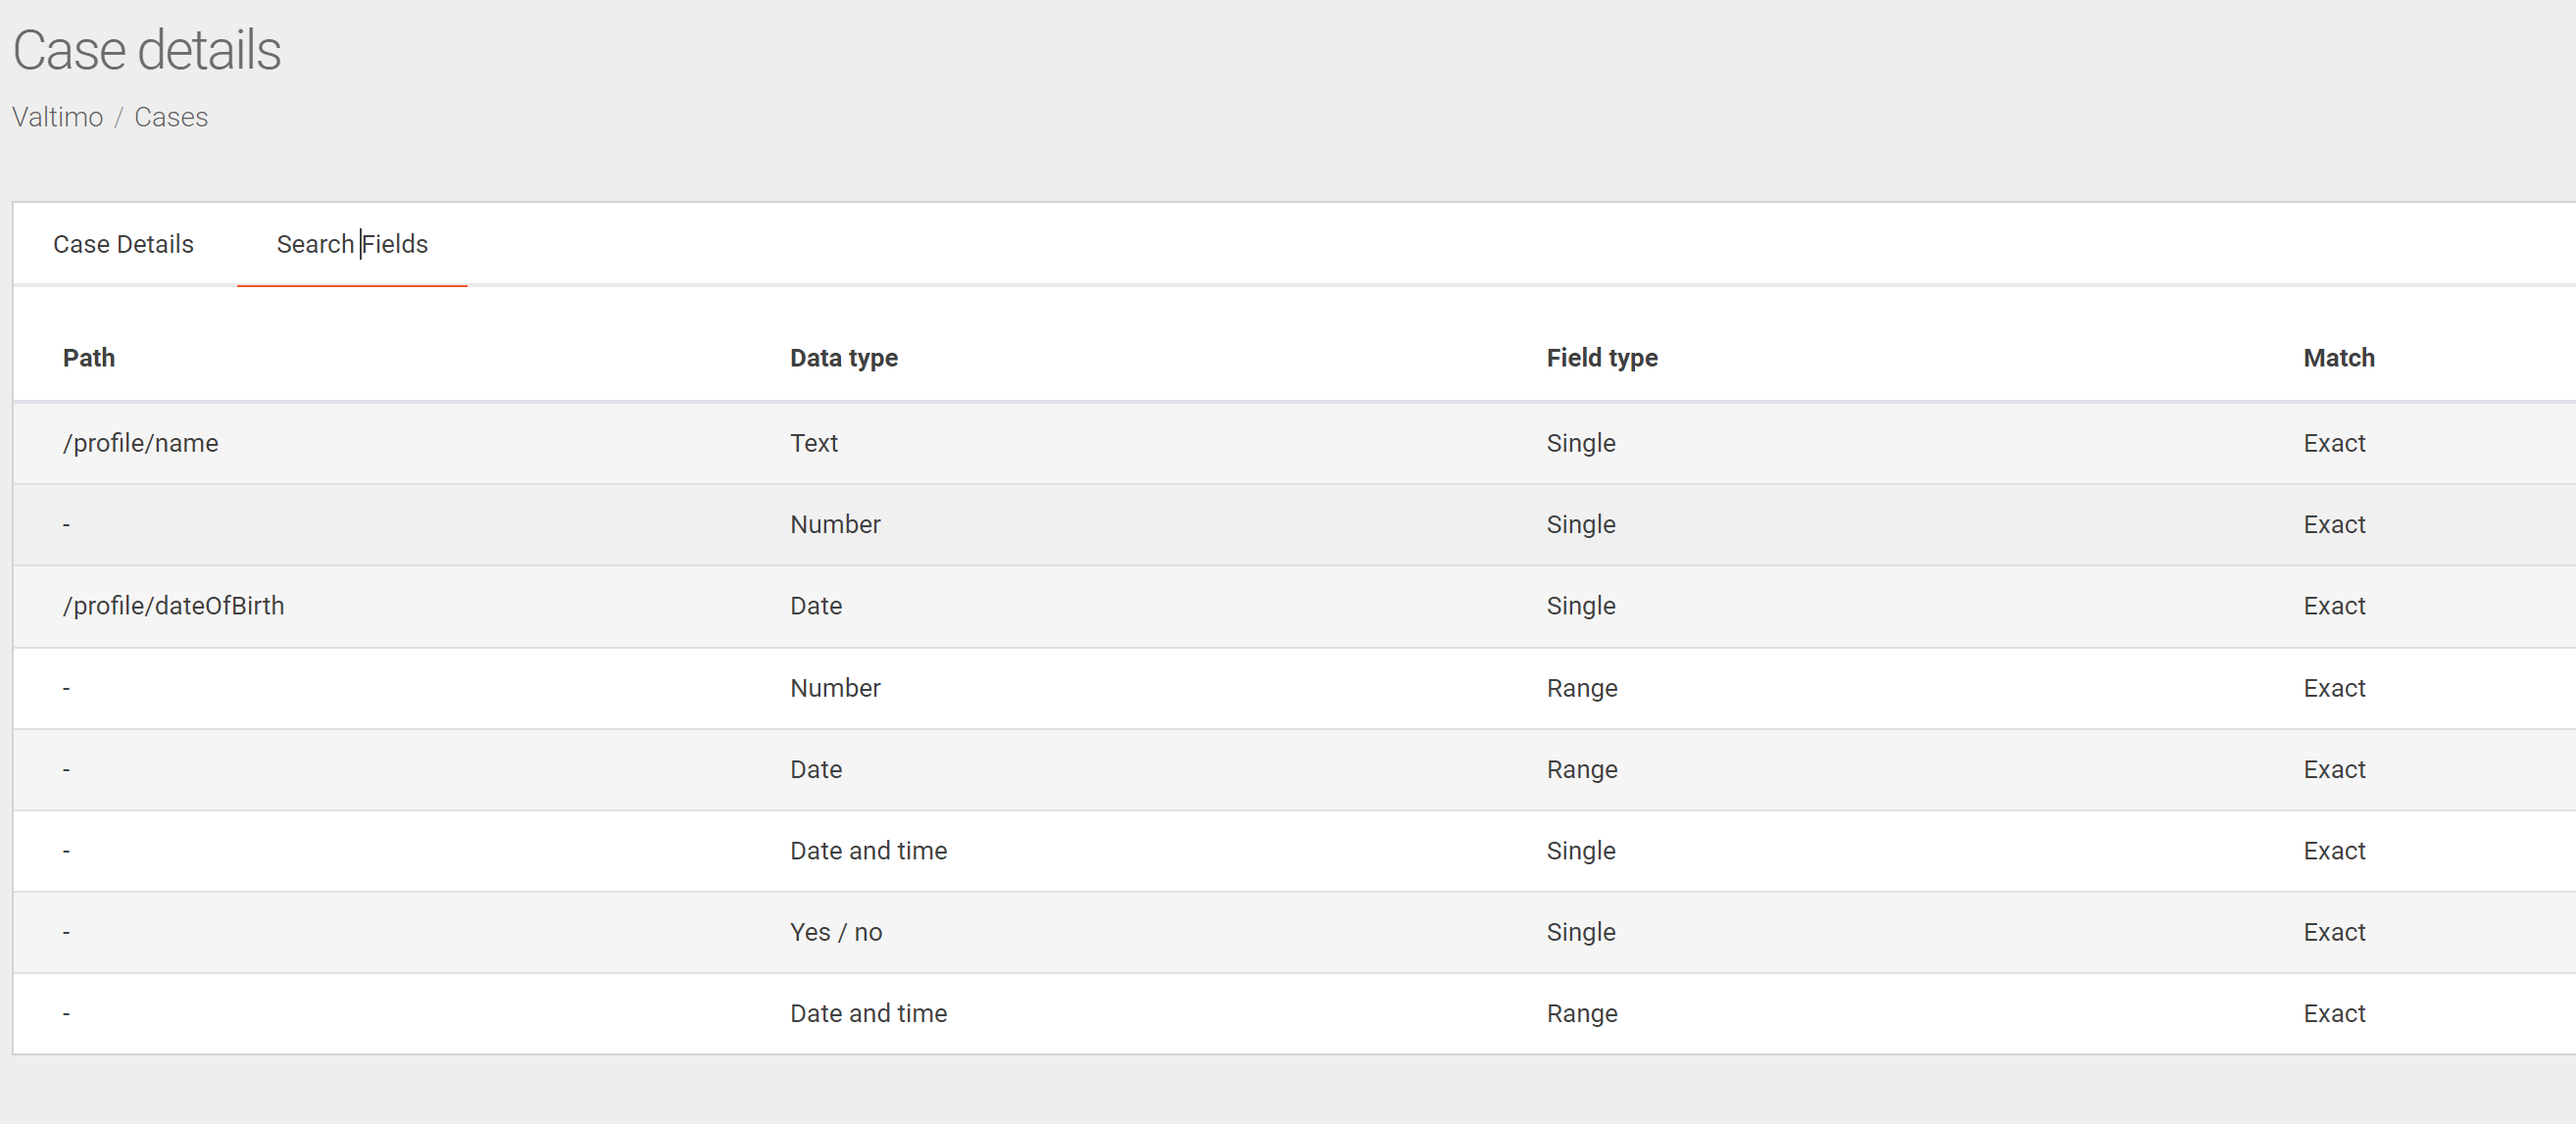
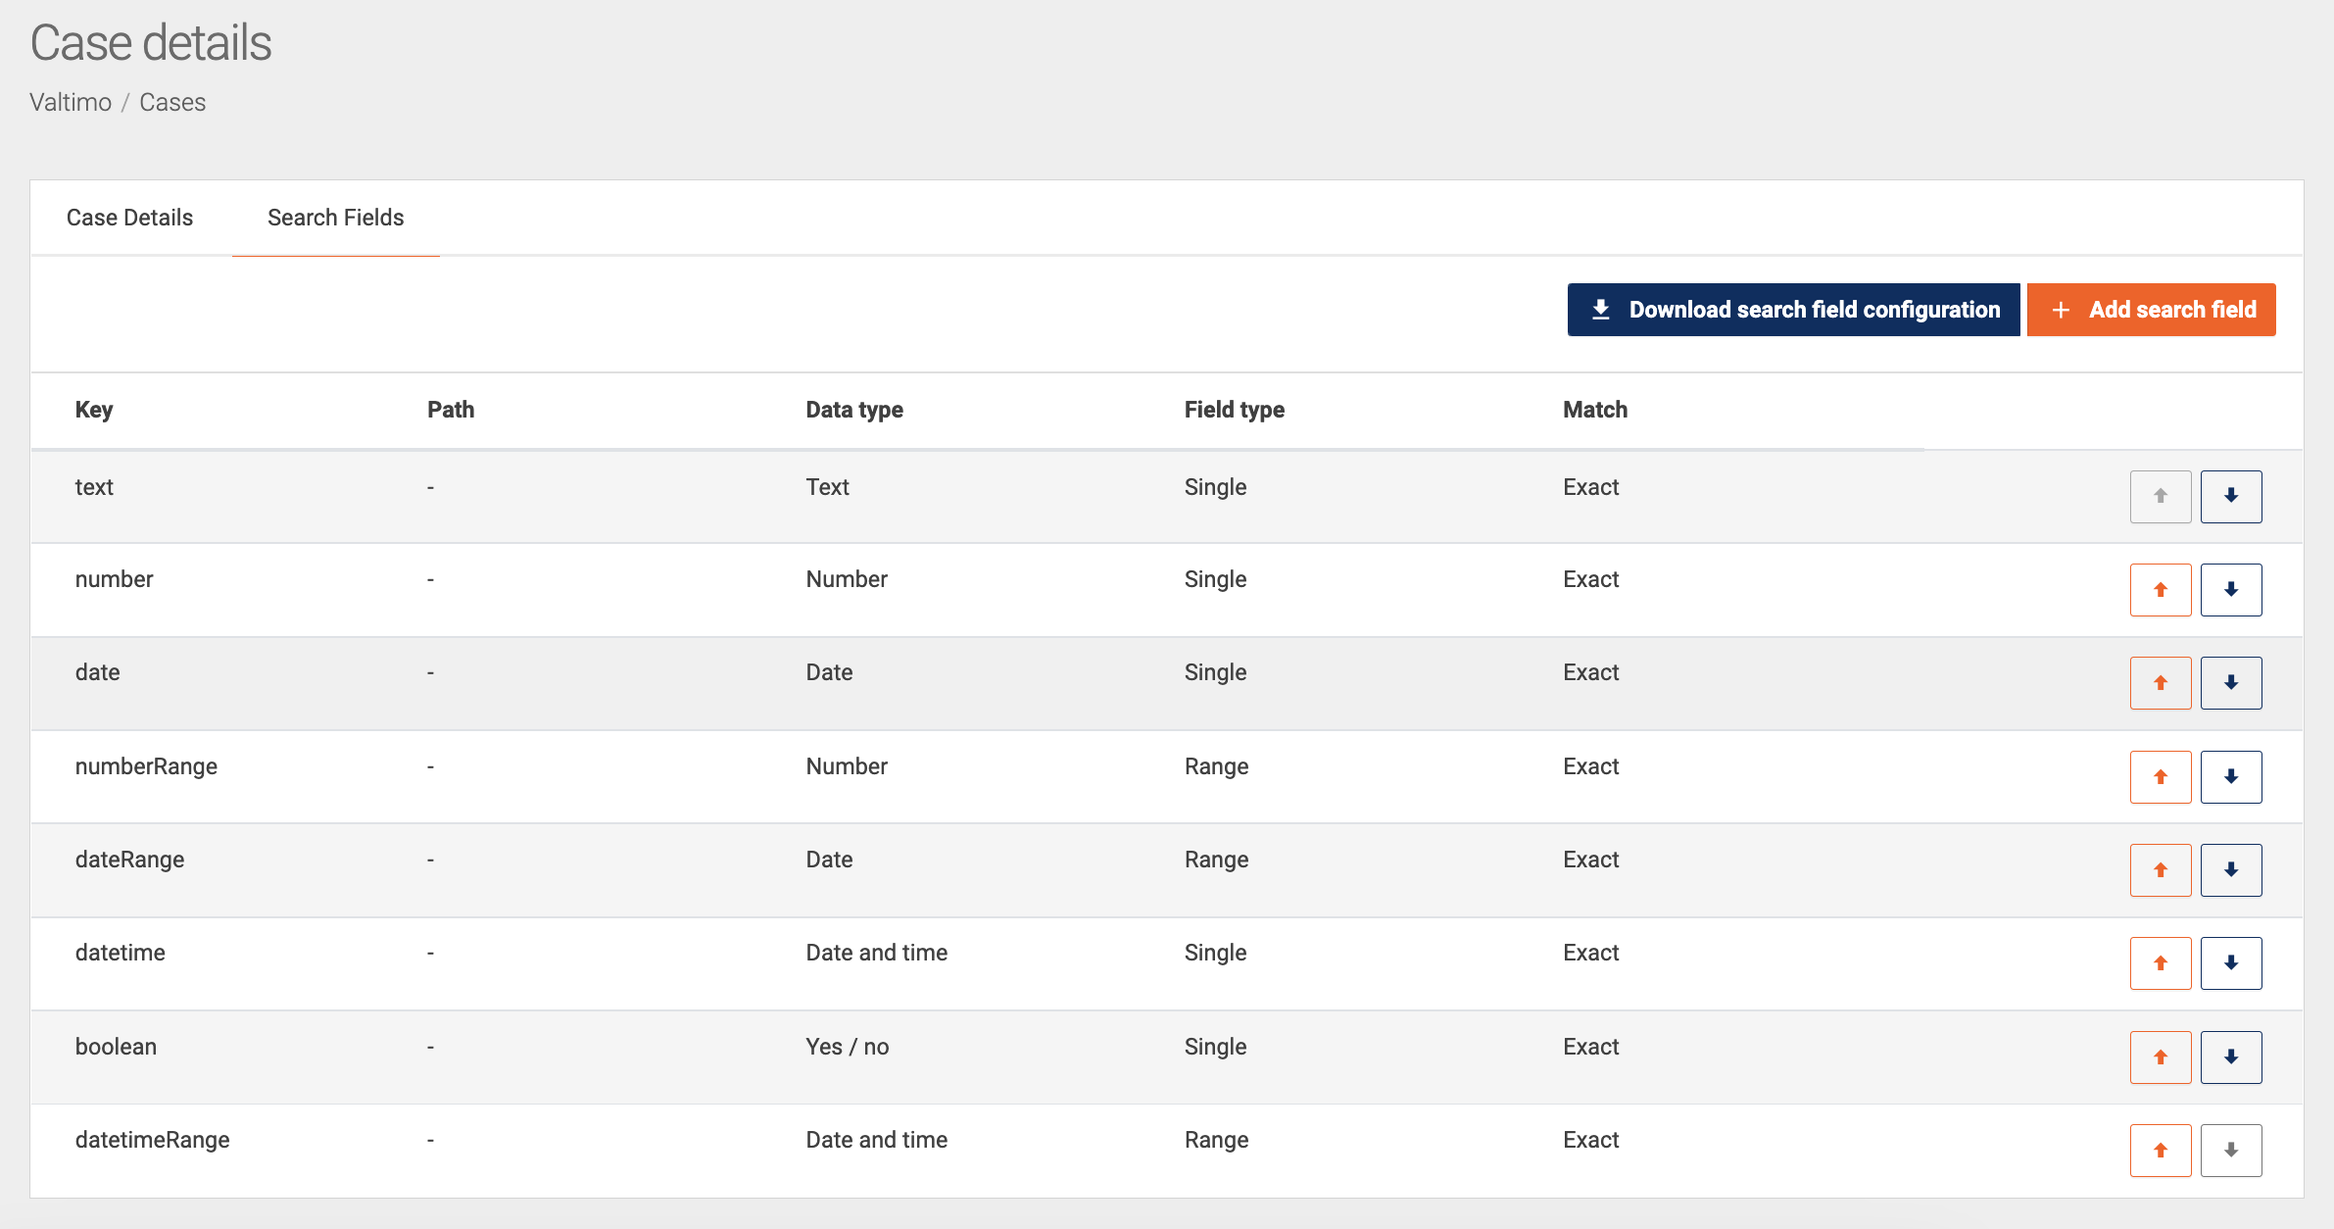
added doc about search fields

diff --git a/using-valtimo/document/configuring-search-fields.md b/using-valtimo/document/configuring-search-fields.md
@@ -18,8 +18,57 @@ By clicking on that box it will expand showing all the available search fields.
 
 ## Configure search fields
 
-An administrator is able to add, change and remove search fields. To see all the configured
+An administrator is able to add, change, remove, reorder and download a file with all search fields. To see all the 
+configured
 search fields go the menu `Admin > Cases` and select a specific case. Then click on the tab 
 named `Search fields`.
 
 ![Configured search fields](img/configured-search-fields.png)
+
+### Available actions
+
+**Edit**: When clicking on an entry in the list of `search fields`, a modal opens with the fields pre-filled with 
+the selected item's data. It is possible to edit all the fields, except for the key.
+When clicking `submit`, the field data is automatically updated in the list.
+
+![Edit Configured search fields](img/edit-configured-search-fields.png)
+
+**Create**: A button to create a new search field is available at the top of the displayed search field list.
+A modal for filling in the data will be presented when clicking on this button. It is necessary to fill in all the 
+required data to enable the `submit` button. The key field is specific identification data, so if the key is not unique, 
+you will not be able to save the search field.
+
+![Create Configured search fields](img/create-configured-search-fields.png)
+
+![Create Configured search fields](img/create-configured-search-fields-1.png)
+
+
+**Delete**: By clicking on an entry `search fields`, a modal opens with the fields pre-filled with the data of the 
+selected row. At the end of the modal, the button to delete the selected line is available. By clicking this button, 
+the item is removed from the list.
+
+![Delete Configured search fields](img/delete-configured-search-fields.png)
+
+**Download**: A button to download the list of `search fields` is available at the top of the displayed list. A file with all the information in the list, in json format, will be downloaded to the user's local machine.
+
+![Download Configured search fields](img/download-configured-search-fields.png)
+
+![Download Configured search fields](img/download-configured-search-fields-1.png)
+
+![Download Configured search fields](img/download-configured-search-fields-2.png)
+
+**Reorder**: At the end of each row of the `search fields` list, there are two buttons for reordering the data. The 
+line will be moved in the corresponding direction by clicking the up or down arrow button. When there is no possibility 
+of moving the line, the reorder buttons will be disabled.
+
+![Reorder Configured search fields](img/reorder-configured-search-fields.png)
+
+The component handles these types of search fields:
+
+| Search field | Available types                                        | Editable     |
+|:-------------|:-------------------------------------------------------|:-------------|
+| **Key**          | Text                                                   | _Not editable_ |
+| **Path**         | Text                                                   | _Editable_     |
+| **Data type**    | Text<br/>Number<br/>Date<br/>Date and time<br/>Boolean | _Editable_      |
+| **Field type**   | Single<br/>Range                                       | _Editable_       |
+| **Match type**   | Exact<br/>Contains                                     | _Editable_       |

diff --git a/release-notes/major9/09.25.0/valtimo-frontend-libraries.md b/release-notes/major9/09.25.0/valtimo-frontend-libraries.md
@@ -12,6 +12,12 @@ The following features were added:
 
   For more information on how to enable the `caseSearchFields` feature toggle, refer to [this page](/reference/feature-toggles/available-feature-toggles.md).
 
+* **Added new actions to case search field configuration**
+
+  Creating, updating, deleting, and reordering search field rows for a document definition are now available actions.
+
+  For more information on this feature, see [this page](/using-valtimo/document/configuring-search-fields.md).
+
 ## Bugfixes
 
 The following bugs were fixed:
